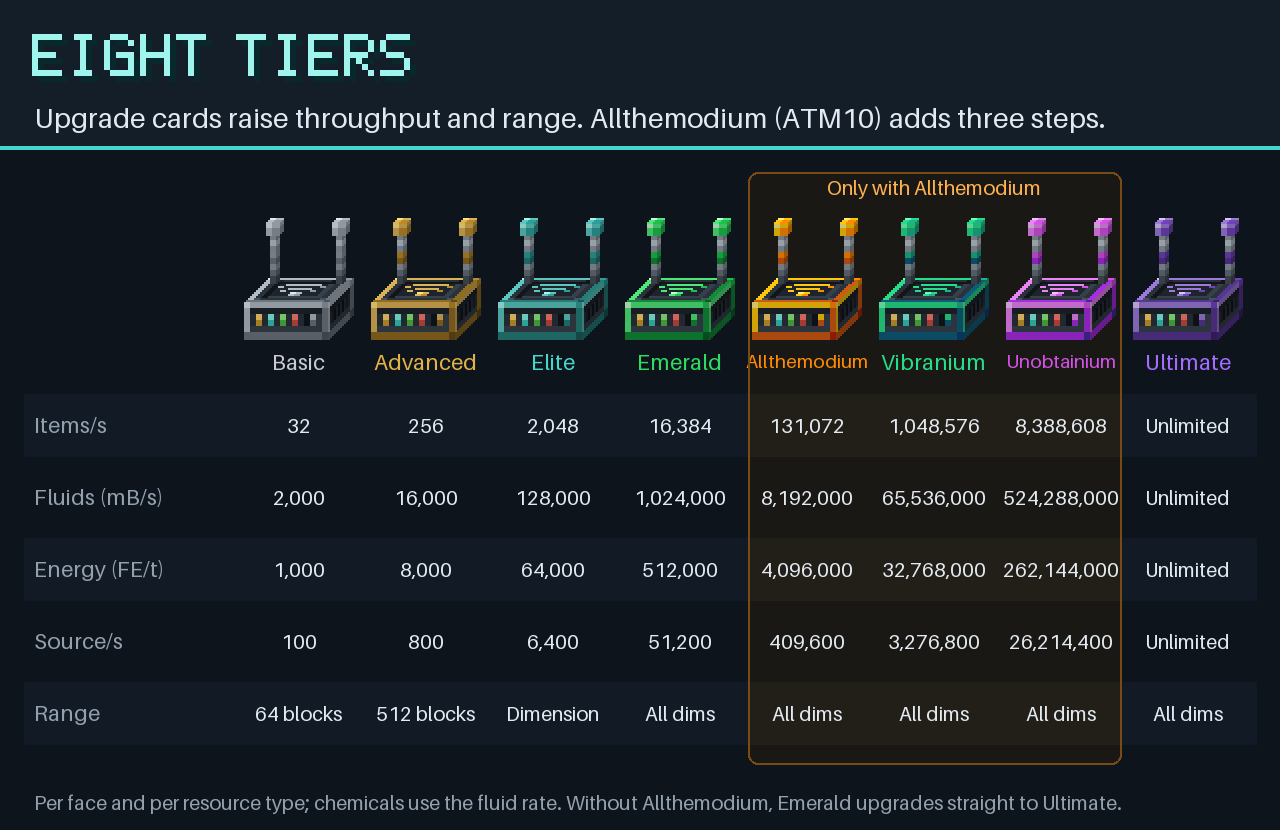
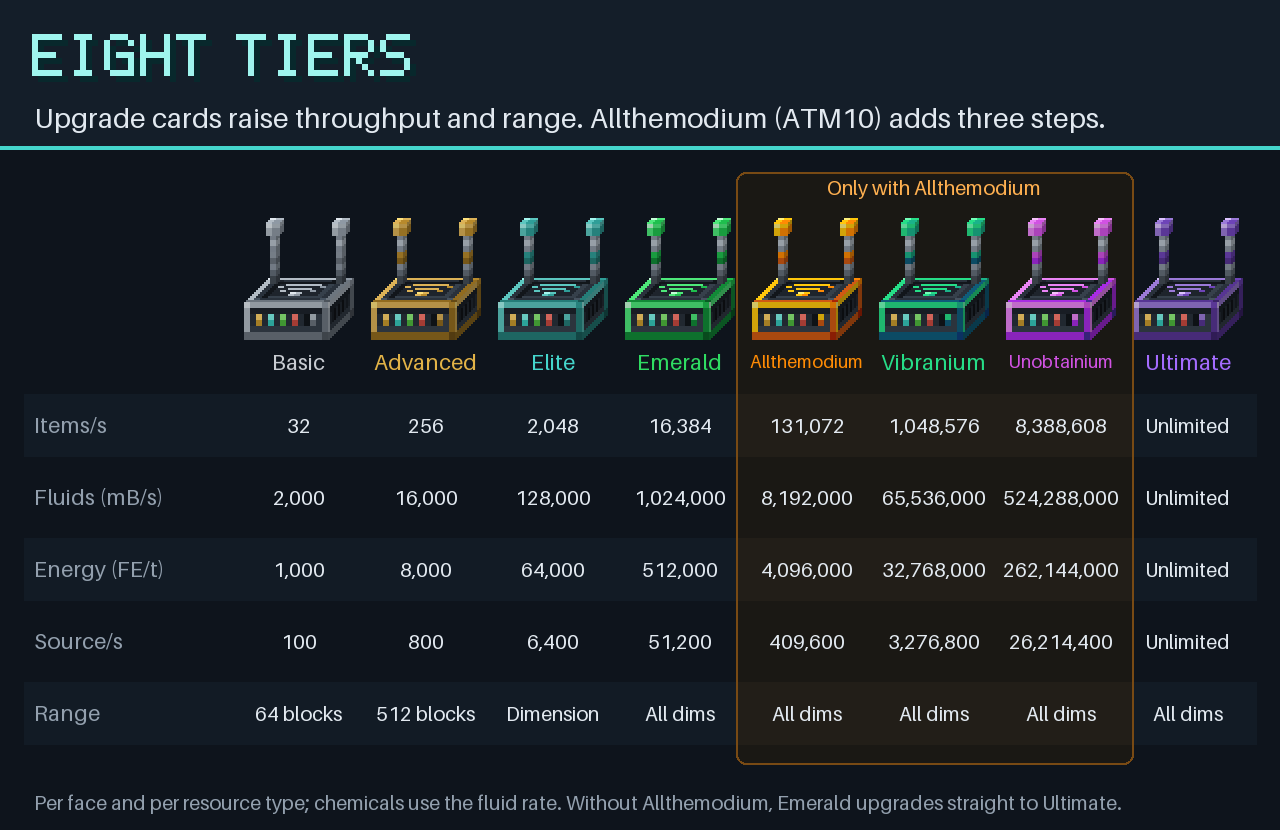
Imagem dos tiers: a borda do bloco do Allthemodium não corta mais o nome
A borda passa 8 px por fora das três colunas e os nomes longos usam
fonte 18.

diff --git a/scripts/curseforge/gerar_imagens.py b/scripts/curseforge/gerar_imagens.py
@@ -189,7 +189,8 @@ def tiers() -> Image.Image:
     x0 = rotulo_w
     # faixa "Allthemodium" sobre as três colunas do mod
     atm = [i for i, t in enumerate(TIERS) if t[3]]
-    ax0, ax1 = x0 + atm[0] * coluna + 4, x0 + (atm[-1] + 1) * coluna - 4
+    # a borda fica um pouco fora das colunas: "Allthemodium" ocupa quase a coluna inteira
+    ax0, ax1 = x0 + atm[0] * coluna - 8, x0 + (atm[-1] + 1) * coluna + 8
     d.rounded_rectangle([ax0, faixa + 22, ax1, faixa + 614], radius=10, fill=(26, 24, 20))
     sprites = capa.tex.gerar()
     for i, (tier, nome, cor, _) in enumerate(TIERS):
@@ -200,7 +201,7 @@ def tiers() -> Image.Image:
         escala = min(2, (coluna - 16) // arte.width)
         arte = arte.resize((arte.width * escala, arte.height * escala), Image.NEAREST)
         img.paste(arte, (cx - arte.width // 2, faixa + 190 - arte.height), arte)
-        d.text((cx, faixa + 204), nome, fill=cor, font=fonte(22 if len(nome) < 11 else 19), anchor="mt")
+        d.text((cx, faixa + 204), nome, fill=cor, font=fonte(22 if len(nome) < 11 else 18), anchor="mt")
     y = faixa + 256
     linhas = [(rotulo, [f"{v:,}" if v else "Unlimited" for v in valores]) for rotulo, valores in VAZOES]
     linhas.append(("Range", ALCANCE))
